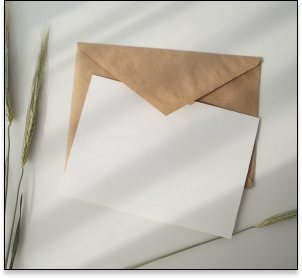
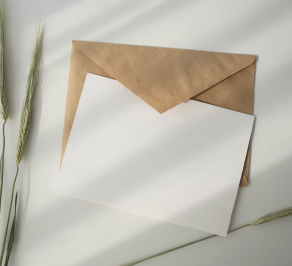
giftcard

diff --git a/src/Styles/shop.css b/src/Styles/shop.css
@@ -27,24 +27,38 @@ h1 {
   border: 2px solid black;
 }
 
+.col2 {
+  display: grid;
+  grid-template-columns: 1fr 1fr;
+  gap: 20px;
+}
 .col-3 {
   display: grid;
-  grid-template-columns: repeat(3, 1fr); /* Three columns with equal width */
-  gap: 20px; /* Adjust the gap between containers */
+  grid-template-columns: repeat(3, 1fr);
+  gap: 20px;
 }
 
 /* giftcard */
 .giftcard-grid {
-  width: 50%;
+  width: 70%;
   border: 2px solid black;
   margin: 25px auto;
   display: grid;
-  grid-template-columns: 0.5fr 1fr; /* Two columns with equal width */
+  grid-template-columns: 1fr 2fr; /* Two columns with equal width */
   gap: 20px;
 }
 .giftcard-grid img {
   width: 100%;
+  height: 100%;
+  object-fit: cover;
+  border-right: 2px solid black;
+}
+.giftcard-info {
+  padding: 0 20px 10px 20px;
 }
 .center-children {
   text-align: center;
+}
+input {
+  margin: 0;
 }

diff --git a/src/Pages/Shop.js b/src/Pages/Shop.js
@@ -83,7 +83,8 @@ function Shop() {
       <h2 className="center">Gift Cards</h2>
       <div className="giftcard-grid">
         <img src={giftCardIMG} alt="giftcard"></img>
-        <div>
+
+        <div className="giftcard-info">
           <h3>Buy a gift card!</h3>
           <p>
             Looking for the perfect gift for that special someone? We've got you
@@ -92,8 +93,10 @@ function Shop() {
             appreciation.
           </p>
           <p>Enter an amount:</p>
-          <input></input>
-          <button className="button">Add to Cart</button>
+          <div className="col2">
+            <input></input>
+            <button className="button">Add to Cart</button>
+          </div>
         </div>
       </div>
     </div>
